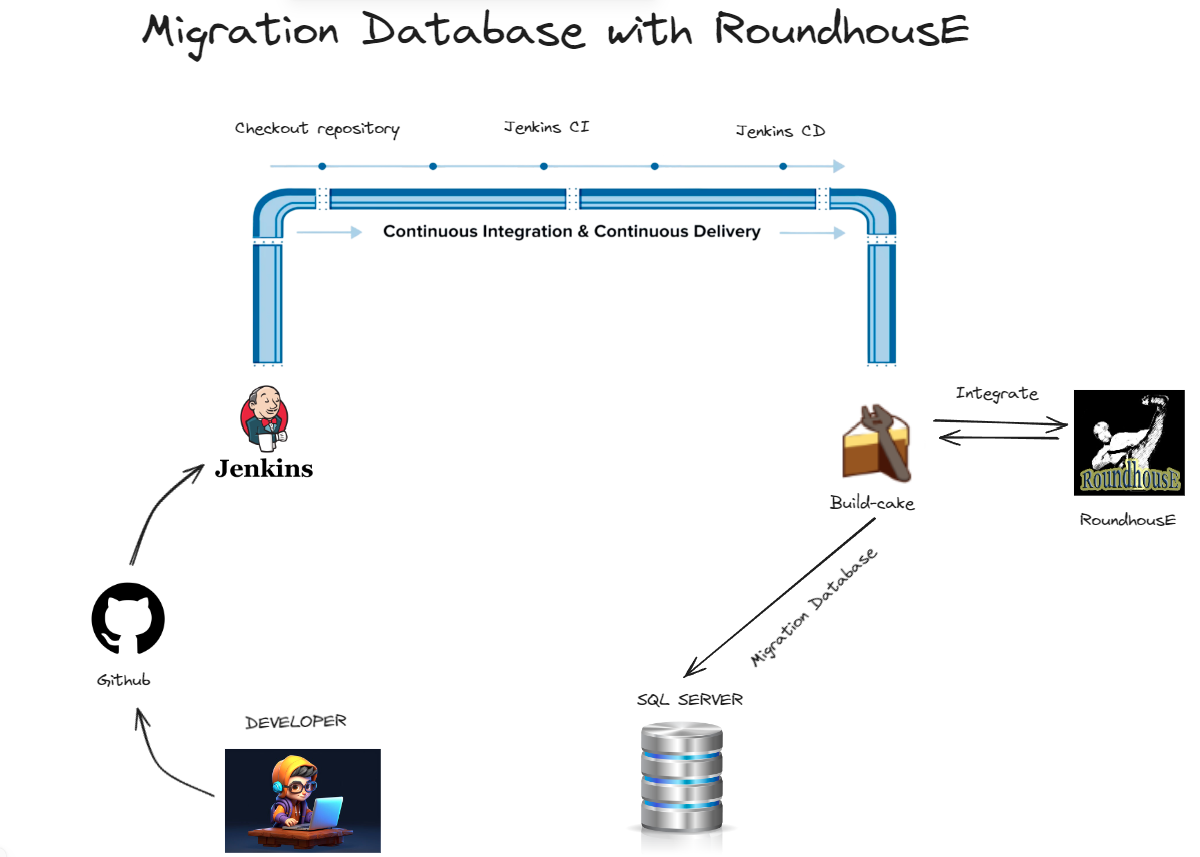
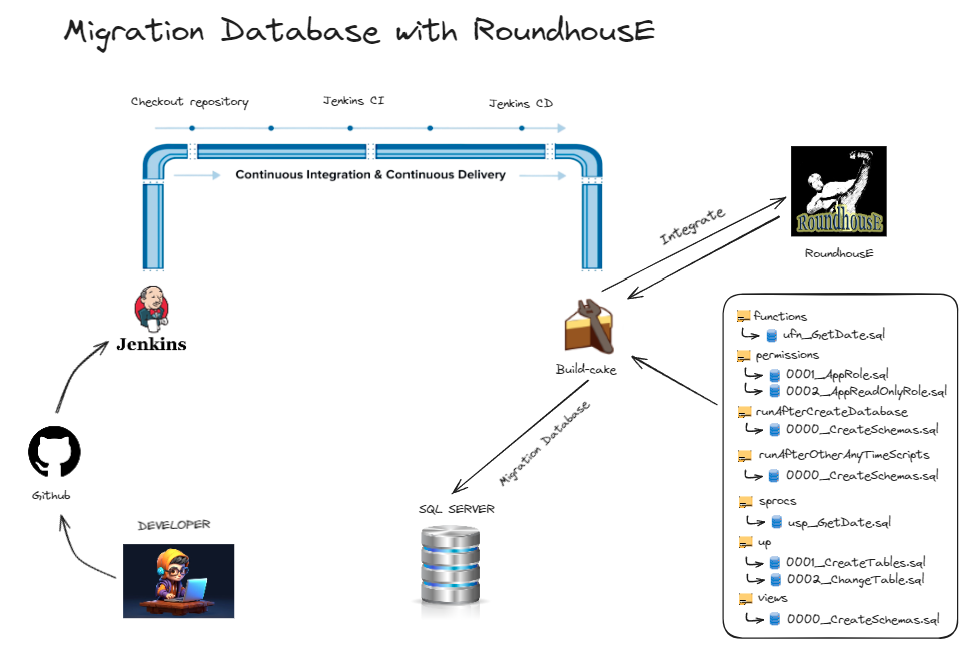
update image

diff --git a/README.md b/README.md
@@ -1,3 +1,3 @@
 # roundhouse-migration
 migration database using RoundhousE
-![alt text](image.png)
+![alt text](image-1.png)
